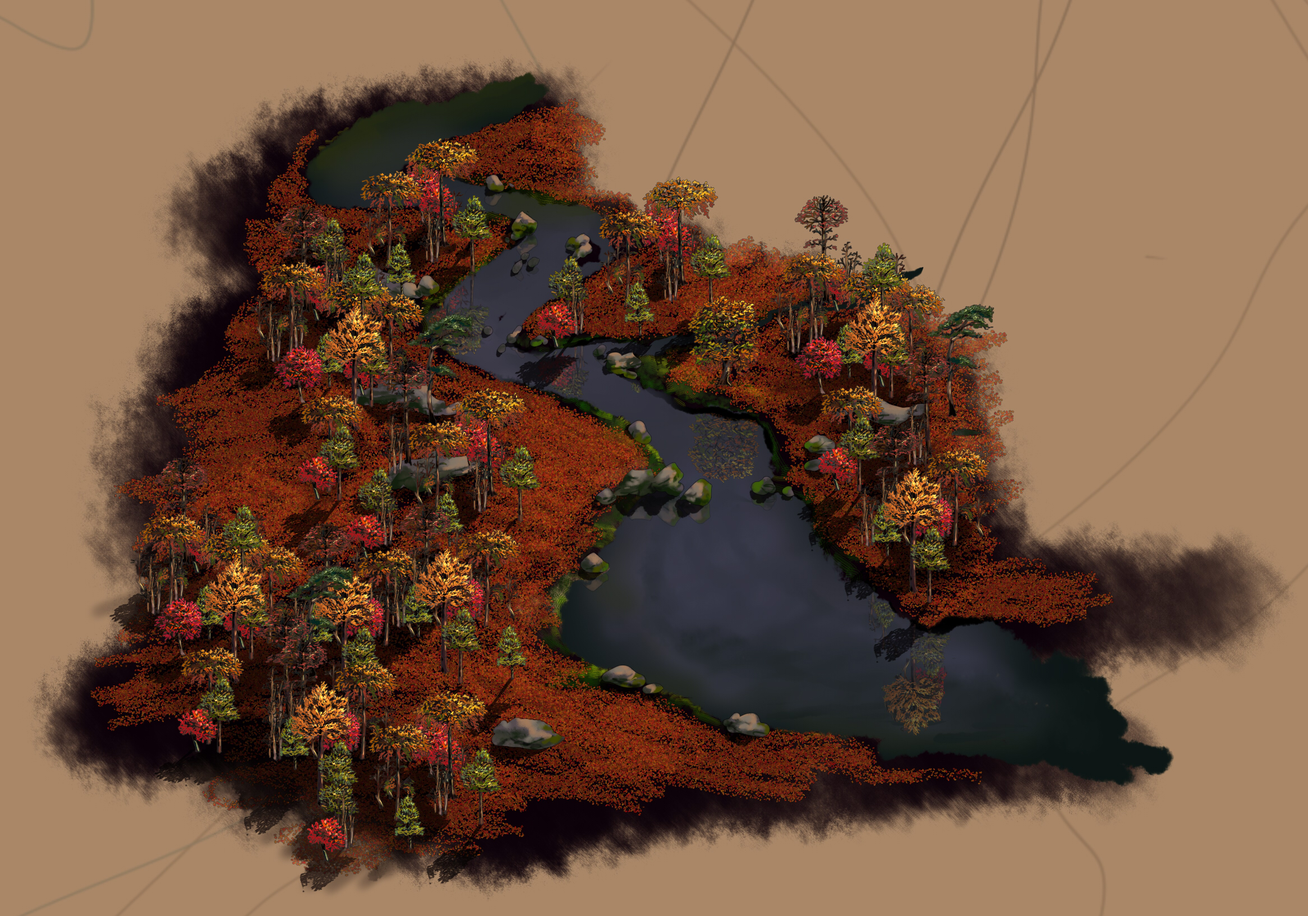
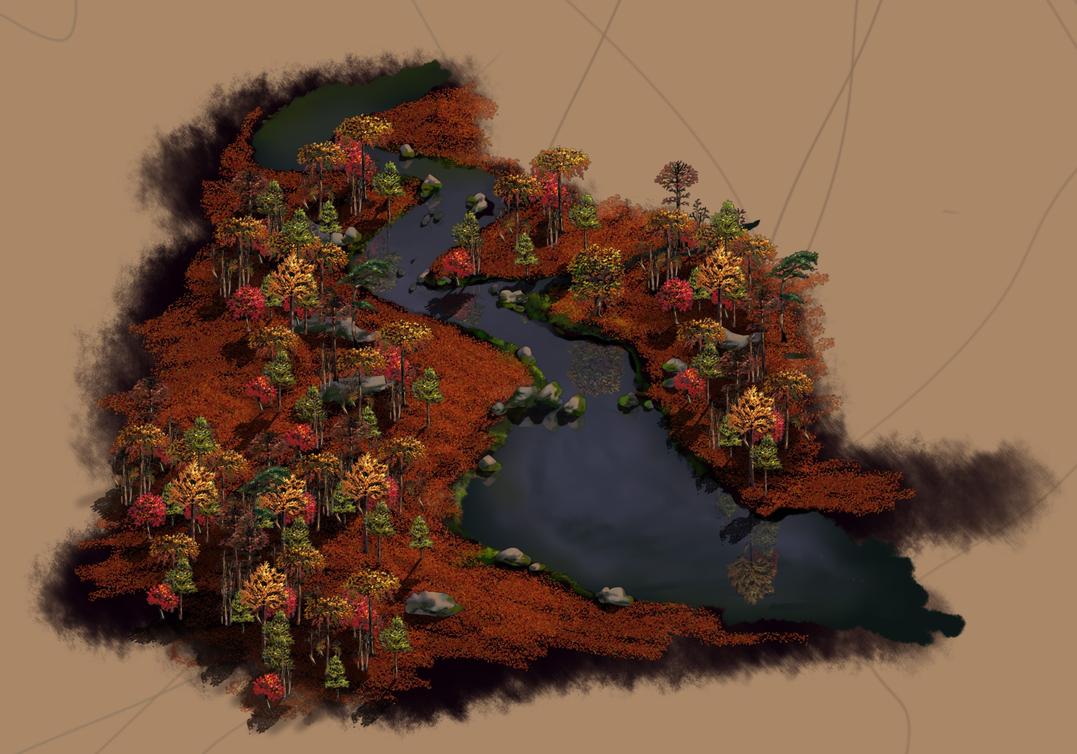
Reduced more textures down.

diff --git a/core/src/com/majalis/screens/WorldMapScreen.java b/core/src/com/majalis/screens/WorldMapScreen.java
@@ -843,6 +843,7 @@ public class WorldMapScreen extends AbstractScreen {
 		backgroundRendered = true;
 		if (storyMode) {
 			Image background = new Image(assetManager.get(WORLD_MAP_BG.getTexture()));
+			background.setSize(2332, 1633);
 			background.setPosition(-400, 0);
 			worldGroup.addActorAt(0, background);
 			addWorldActors();
@@ -858,11 +859,11 @@ public class WorldMapScreen extends AbstractScreen {
 			Texture doodadTextureSheet = assetManager.get(AssetEnum.DOODADS.getTexture());
 			Array<TextureRegion> treeTextures = new Array<TextureRegion>();
 			Array<TextureRegion> treeShadowTextures = new Array<TextureRegion>();
-			int treeRowSize = 13;
+			int treeRowSize = 7;
 			int treeWidth = 192;
 			int treeHeight = 256;
 			for (int ii = 0; ii < treeRowSize; ii++) {
-				for (int jj = 0; jj < 2; jj++) {
+				for (int jj = 0; jj < 4; jj++) {
 					treeTextures.add(new TextureRegion(doodadTextureSheet, ii * treeWidth, jj * treeHeight, treeWidth, treeHeight));
 					TextureRegion shadowTexture = new TextureRegion(doodadTextureSheet, ii * treeWidth, jj * treeHeight, treeWidth, treeHeight);
 					shadowTexture.flip(true, false);
@@ -872,13 +873,13 @@ public class WorldMapScreen extends AbstractScreen {
 			
 			Array<TextureRegion> rockTextures = new Array<TextureRegion>();
 			Array<TextureRegion> rockShadowTextures = new Array<TextureRegion>();
-			int rockRowSize = 10;
+			int rockRowSize = 5;
 			int rockWidth = 256;
 			int rockHeight = 128;
 			for (int ii = 0; ii < rockRowSize; ii++) {
-				for (int jj = 0; jj < 2; jj++) {
-					rockTextures.add(new TextureRegion(doodadTextureSheet, ii * rockWidth, treeHeight * 2 + jj * rockHeight, rockWidth, rockHeight));
-					TextureRegion shadowTexture = new TextureRegion(doodadTextureSheet, ii * rockWidth, treeHeight * 2 + jj * rockHeight, rockWidth, rockHeight);
+				for (int jj = 0; jj < 4; jj++) {
+					rockTextures.add(new TextureRegion(doodadTextureSheet, ii * rockWidth, treeHeight * 4 + jj * rockHeight, rockWidth, rockHeight));
+					TextureRegion shadowTexture = new TextureRegion(doodadTextureSheet, ii * rockWidth, treeHeight * 4 + jj * rockHeight, rockWidth, rockHeight);
 					shadowTexture.flip(true, false);
 					rockShadowTextures.add(shadowTexture);
 				}
@@ -890,8 +891,8 @@ public class WorldMapScreen extends AbstractScreen {
 			int lilyHeight = 64;
 			for (int ii = 0; ii < lilyArraySize; ii++) {
 				Array<TextureRegion> frames = new Array<TextureRegion>();
-				frames.add(new TextureRegion(doodadTextureSheet, ii * lilyWidth, treeHeight * 2 + rockHeight * 2, lilyWidth, lilyHeight));
-				frames.add(new TextureRegion(doodadTextureSheet, ii * lilyWidth, treeHeight * 2 + rockHeight * 2 + lilyHeight, lilyWidth, lilyHeight));
+				frames.add(new TextureRegion(doodadTextureSheet, ii * lilyWidth, treeHeight * 4 + rockHeight * 4, lilyWidth, lilyHeight));
+				frames.add(new TextureRegion(doodadTextureSheet, ii * lilyWidth, treeHeight * 4 + rockHeight * 4 + lilyHeight, lilyWidth, lilyHeight));
 				Animation lilyAnimation = new Animation(.28f, frames);
 				lilyAnimation.setPlayMode(PlayMode.LOOP);
 				lilyAnimations.add(lilyAnimation);

diff --git a/core/src/com/majalis/battle/Battle.java b/core/src/com/majalis/battle/Battle.java
@@ -410,14 +410,14 @@ public class Battle extends Group{
 		Texture slashSheet = assetManager.get(AssetEnum.SLASH.getTexture());
 		Array<TextureRegion> frames = new Array<TextureRegion>();
 		for (int ii = 0; ii < 6; ii++) {
-			frames.add(new TextureRegion(slashSheet, ii * 512, 0, 512, 512));
+			frames.add(new TextureRegion(slashSheet, ii * 384, 0, 384, 384));
 		}
 		
 		Animation animation = new Animation(.07f, frames);
 		slash = new AnimatedImage(animation, Scaling.fit, Align.right);
 		slash.setState(1);
 		
-		slash.setPosition(700, 500);
+		slash.setPosition(764, 564);
 		this.addActor(slash);
 		
 		this.addActor(uiGroup);
